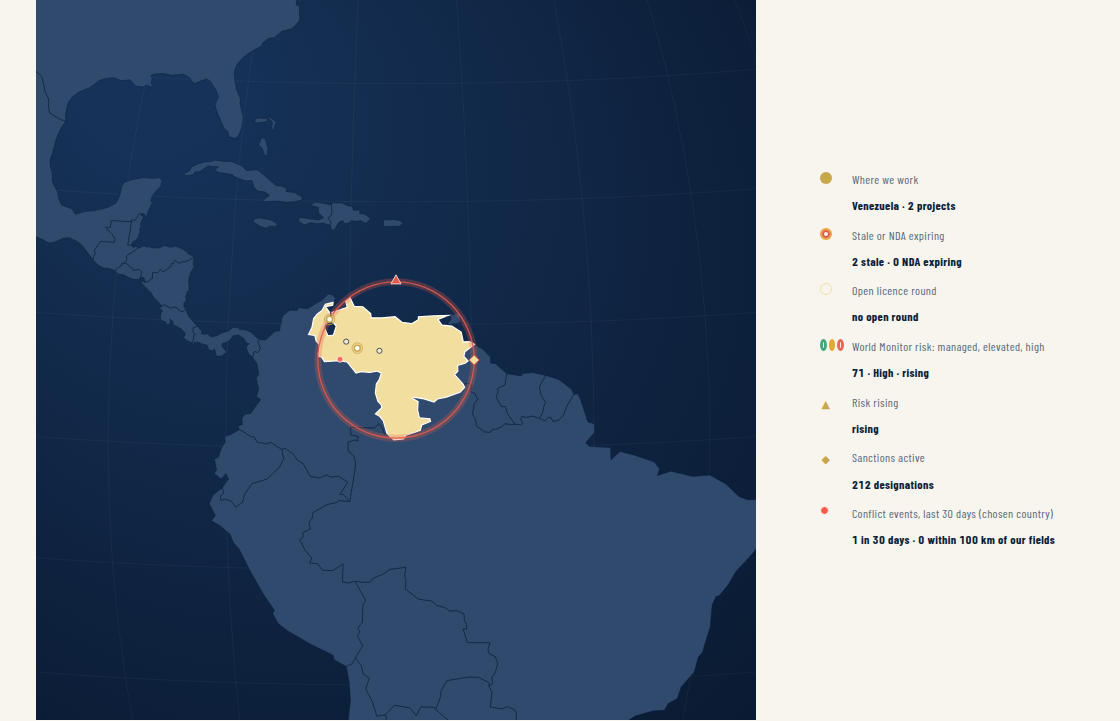
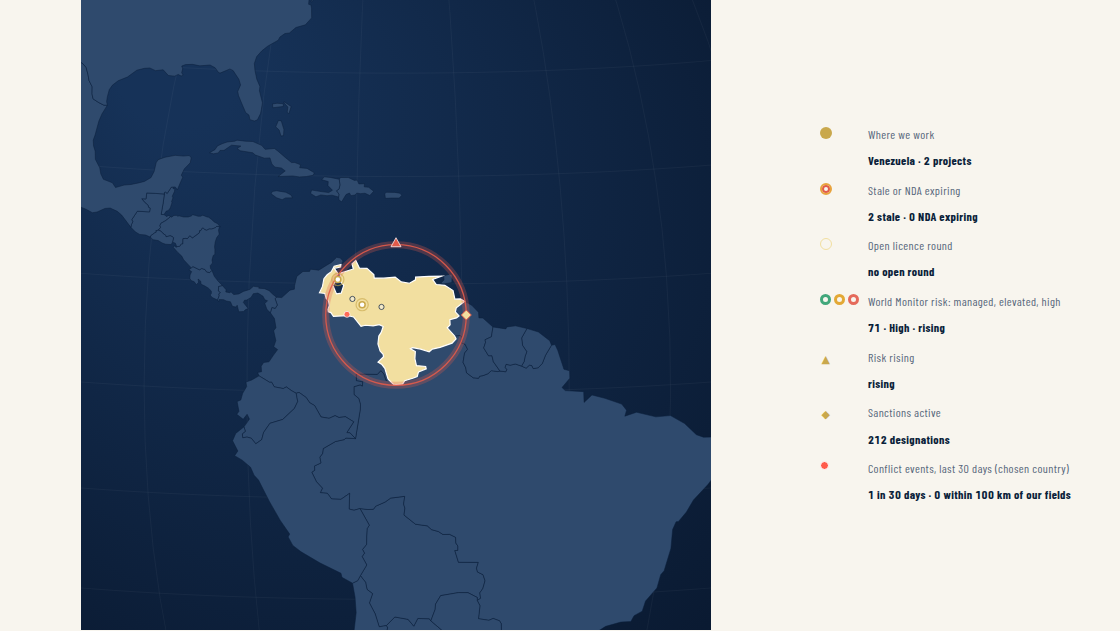
The legend's three risk dots keep their size side by side
The swatch column was 24 px wide and the three World Monitor dots were
crushed into it. The column is 40 px, the dots are fixed at 11 px and
never shrink, and the test measures each one.

Claude-Session: https://claude.ai/code/session_01Cjvnf42mX2Ab9Sf24rXZ1W

diff --git a/hub/hub.css b/hub/hub.css
@@ -1229,7 +1229,9 @@ body[data-ready] .hub-project #p-skeleton { display: none; }
 .hub .hub-globe-wrap { width: min(100%, 720px, 70vh); max-height: none; margin: 0 auto; background: none; border-radius: 0; box-shadow: none; overflow: visible; align-self: center; }   /* 70vh: the whole globe on the first screen */
 .hub .hub-globe-hint { position: static; margin: -6px 0 0; text-align: center; color: var(--muted); }
 .hub .hub-globe-legend { position: static; max-width: none; display: grid; gap: 10px; font-size: 12px; letter-spacing: .03em; color: var(--navy-mid); align-self: center; }
-.hub .hub-globe-legend li { display: grid; grid-template-columns: 24px minmax(0, 1fr); column-gap: 8px; align-items: start; white-space: normal; overflow: visible; }
+.hub .hub-globe-legend li { display: grid; grid-template-columns: 40px minmax(0, 1fr); column-gap: 8px; align-items: start; white-space: normal; overflow: visible; }   /* 40px: the three risk dots side by side, never squashed */
+.hub .hub-globe-legend .hub-lg-swatch.halo { width: 40px; gap: 3px; }
+.hub .hub-globe-legend .hub-lg-swatch.halo i { flex: none; width: 11px; height: 11px; border-width: 3px; }
 .hub .hub-globe-legend .hub-lg-swatch, .hub .hub-globe-legend .hub-lg-mark { margin-top: 2px; }
 .hub .hub-globe-legend .hub-lg-mark { color: var(--gold); }
 .hub .hub-globe-legend .lg-value { grid-column: 2; font-weight: 700; color: var(--navy); font-variant-numeric: tabular-nums; }
